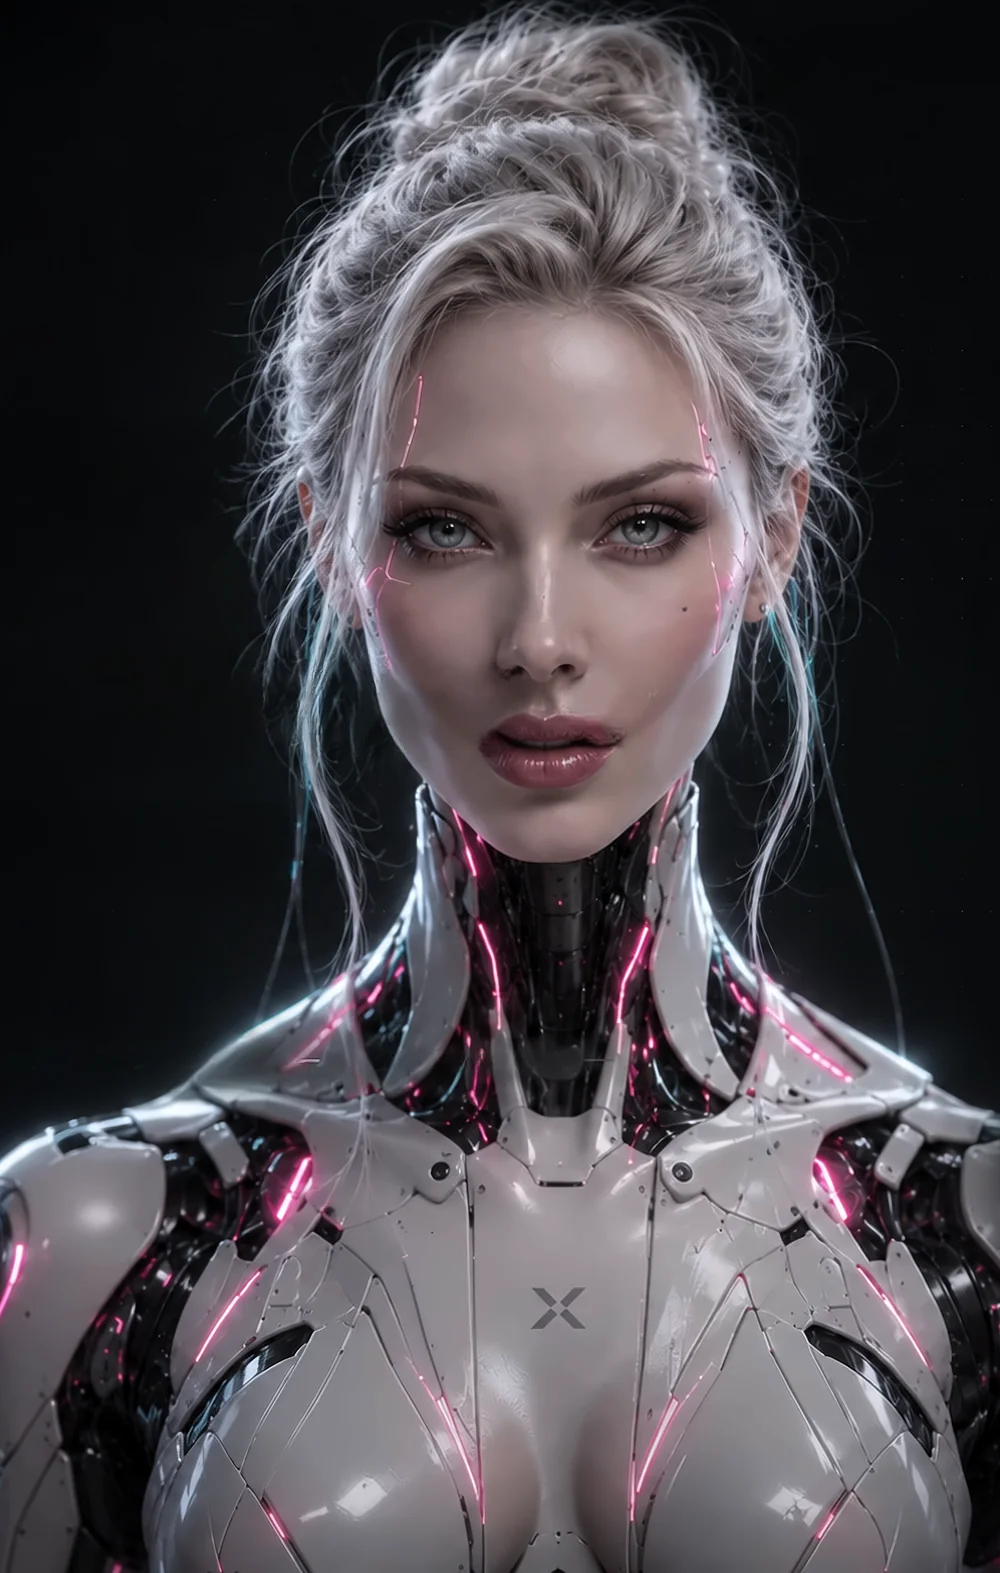
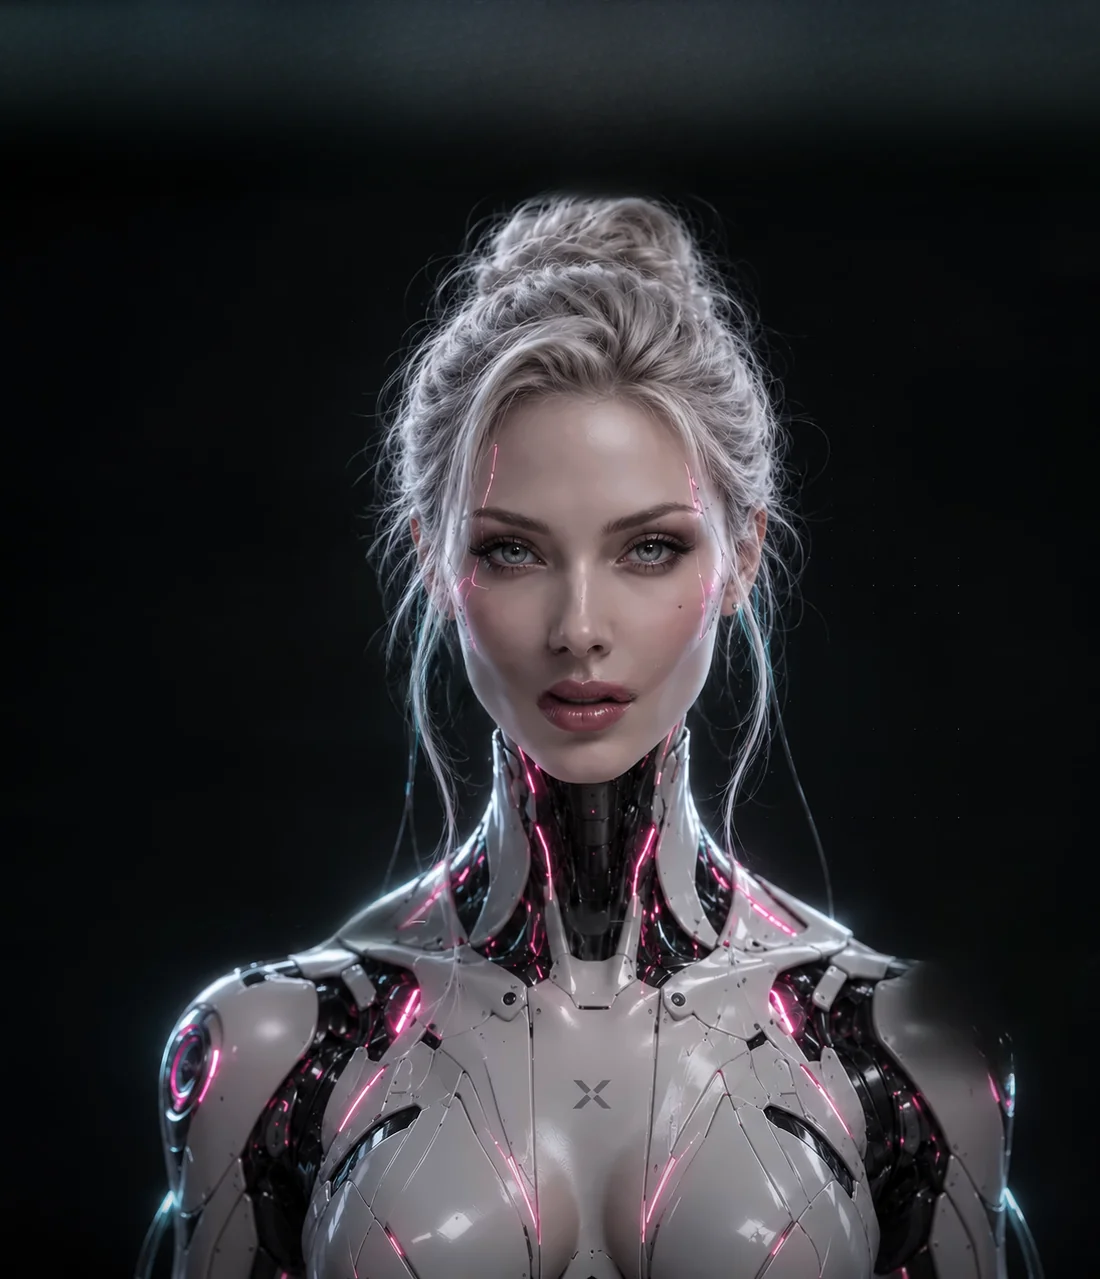
fix: desktop sessions from the app's dev origin; complete the sign-in portrait
Allow http://localhost:1420 (the desktop app's Vite server) as a desktop
origin only when the API itself runs on localhost. The sign-in portrait is
outpainted above the bun and cut to the panel's proportions so the figure
shows in full at cover size.

diff --git a/src/styles/app.css b/src/styles/app.css
@@ -97,7 +97,7 @@ svg { width: 18px; height: 18px; fill: none; stroke: currentColor; stroke-width:
 .auth-open .toast { z-index: 260; }
 
 .auth-showcase { position: relative; display: flex; flex-direction: column; justify-content: space-between; gap: 34px; padding: 46px 52px; overflow: hidden; color: #fff; background: #000; border-right: 1px solid var(--line); }
-.auth-showcase::before { content: ""; position: absolute; inset: 0; pointer-events: none; background-image: url("../assets/mere-code-portrait.webp"); background-size: cover; background-position: 50% 18%; filter: brightness(.5) saturate(.85); opacity: .95; }
+.auth-showcase::before { content: ""; position: absolute; inset: 0; pointer-events: none; background-image: url("../assets/mere-code-portrait.webp"); background-size: cover; background-position: center bottom; background-color: #050506; filter: brightness(.55) saturate(.85); opacity: .95; }
 .auth-showcase::after { content: ""; position: absolute; inset: 0; pointer-events: none; background: radial-gradient(ellipse at 55% 45%, transparent 30%, rgba(0,0,0,.72) 80%); }
 .auth-showcase > * { position: relative; z-index: 1; }
 .auth-showcase-glow { position: absolute; z-index: 0; inset: 0; background-image: linear-gradient(rgba(255,255,255,.06) 1px, transparent 1px), linear-gradient(90deg, rgba(255,255,255,.06) 1px, transparent 1px); background-size: 48px 48px; pointer-events: none; mask-image: radial-gradient(ellipse at center, #000 30%, transparent 75%); }
@@ -789,7 +789,7 @@ body.is-running .send-button { background: transparent; color: var(--ink); borde
   .changes-title { white-space: nowrap; }
   .changes-actions { flex-basis: 100%; margin-left: 0; }
   .changes-actions .chip-btn { flex: 1; justify-content: center; }
-  .change-row { flex-wrap: wrap; row-gap: 4px; }
+  .change-row { flex-wrap: wrap; row-gap: 4px; height: auto; min-height: 36px; padding: 6px 12px; }
   .change-row .change-path { flex-basis: 100%; }
   .change-row .change-buttons { margin-left: auto; }
   .diff-line { grid-template-columns: 34px 14px 1fr; }

diff --git a/server/index.js b/server/index.js
@@ -95,9 +95,11 @@ app.use(express.json({ limit: "6mb" }));
    session instead of a cookie; it gets CORS, everything else must be
    same-origin. */
 const DESKTOP_ORIGINS = new Set(["http://tauri.localhost", "https://tauri.localhost", "tauri://localhost"]);
+/* The app's dev server, only against a server that itself runs on localhost. */
+const isDesktopDevOrigin = (req, origin) => origin === "http://localhost:1420" && /^(localhost|127\.0\.0\.1)(:\d+)?$/.test(req.get("host") || "");
 app.use("/api", (req, res, next) => {
   const origin = req.get("origin");
-  if (origin && DESKTOP_ORIGINS.has(origin)) {
+  if (origin && (DESKTOP_ORIGINS.has(origin) || isDesktopDevOrigin(req, origin))) {
     res.setHeader("Access-Control-Allow-Origin", origin);
     res.setHeader("Access-Control-Allow-Methods", "GET, POST, PUT, PATCH, DELETE, OPTIONS");
     res.setHeader("Access-Control-Allow-Headers", "Content-Type, Authorization, Accept, X-Mere-Client");
